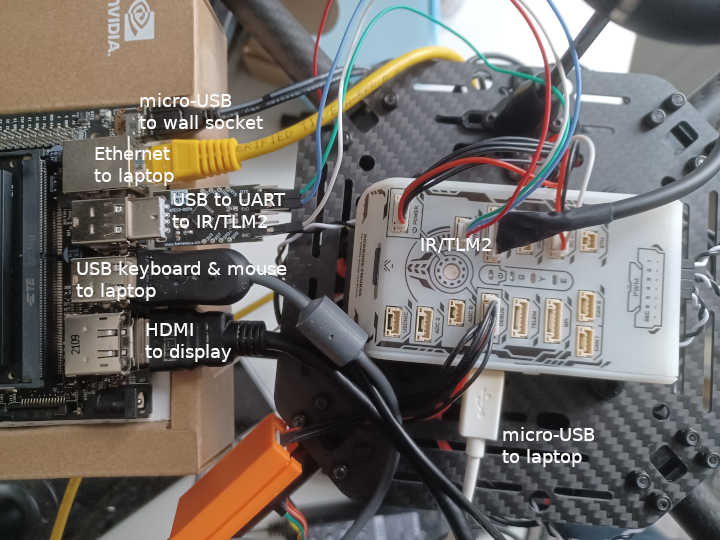
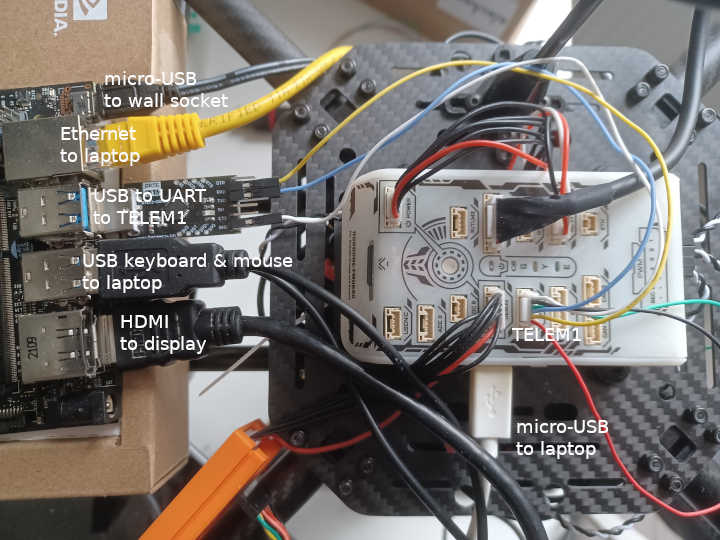
refactor(docker): Fix use of micro-ros-agent for serial connection
Use TELEM1 (default) for micro-ros-agent serial connection.

Add missing px4_msgs definitions to micro-ros-agent docker image.

Update Sphinx docs.

[skip ci]

diff --git a/docs/pages/developer_guide/hil/jetson_pixhawk.rst b/docs/pages/developer_guide/hil/jetson_pixhawk.rst
@@ -1,4 +1,4 @@
-Jetson Nano & PX4/Pixhawk
+Jetson Nano & Pixhawk
 ____________________________________________________
 
 This section provides an example on how to run GISNav on a Jetson Nano in a PX4 HIL simulation on a Pixhawk board. The
@@ -16,7 +16,7 @@ Prerequisites
 * Connect your Jetson Nano to your desktop (simulation host) computer via Ethernet cable (see :ref:`Onboard computer`
   for more information).
 * Connect your Pixhawk board to your desktop (simulation host) computer via USB cable.
-* Connect your Pixhawk board to your Jetson Nano via TELEM2 (set PX4 ``XRCE_DDS_0_CFG`` parameter to 102)
+* Connect your Pixhawk board to your Jetson Nano via TELEM1 (set PX4 ``XRCE_DDS_0_CFG`` parameter to 101)
 * Install a bootloader on your Pixhawk board if your board does not yet have one. See your board manufacturer's
   instructions on how to load one onto your specific board.
 * (1) Install the `https://github.com/hmakelin/PX4-Autopilot.git`_ custom fork of PX4-Autopilot which includes
@@ -26,17 +26,19 @@ Prerequisites
   .. _https://github.com/hmakelin/PX4-Autopilot.git: https://github.com/hmakelin/PX4-Autopilot.git
 
 .. note::
+
     In this example we have powered both the Pixhawk and Jetson Nano boards from the desktop computer via USB for
-    convenience and to avoid having to handle LiPo batteries (fire hazard). In a more realistic setup you would supply
-    power to both boards from the onboard battery.
+    convenience and to avoid having to handle LiPo batteries. In a more realistic setup you would supply power to both
+    boards from the onboard battery.
 
 .. figure:: ../../../_static/img/gisnav_hil_fmuk66-e_setup.jpg
 
-    NXP FMUK66-E (FMU) board connected to laptop via micro-USB and to Jetson Nano via TELEM2 (IR/TLM2). Other wires as
-    per `manufacturer's instructions`_, except for missing telemetry radio. FMU draws power from laptop via micro-USB,
-    and Jetson Nano from wall socket via dedicated micro-USB DC adapter, so no LiPo batteries needed. Connection to
-    from FMU to Jetson Nano via IR/TLM2 using USB to UART converter. See `FMUK66-E revision C pin layout`_ for
-    how to wire the 4-pin IR/TLM2 JST-GH connector.
+    NXP FMUK66-E (FMU) board connected to laptop via micro-USB and to Jetson Nano via TELEM1. Other wires as per
+    `manufacturer's instructions`_, except for missing telemetry radio. FMU draws power from laptop via micro-USB, and
+    Jetson Nano from wall socket via dedicated micro-USB DC adapter, so no LiPo batteries needed. Connection to from
+    FMU to Jetson Nano via TELEM1 serial port using USB to UART converter. See `FMUK66-E revision C pin layout`_ for
+    how to wire the TELEM1 JST-GH connector (only GND, RX and TX used here). Note that the TX from one board connects
+    to the RX of the other board, and vice versa.
 
     .. _manufacturer's instructions: https://nxp.gitbook.io/hovergames/userguide/assembly/connecting-all-fmu-wires
     .. _FMUK66-E revision C pin layout: https://nxp.gitbook.io/hovergames/rddrone-fmuk66/connectors/telemetry-2#rddrone-fmuk66-rev.-c-schematic

diff --git a/docs/pages/developer_guide/sitl/companion_computer.rst b/docs/pages/developer_guide/sitl/companion_computer.rst
@@ -14,7 +14,7 @@ following link:
 
 * https://www.forecr.io/blogs/connectivity/how-to-share-internet-from-computer-to-nvidia-jetson-modules
 
-See also the below screenshot also used in the :ref:`Jetson Nano & PX4/Pixhawk` example:
+See also the below screenshot:
 
  .. figure:: ../../../_static/img/gisnav_hil_jetson_nano_setup.jpg
 
